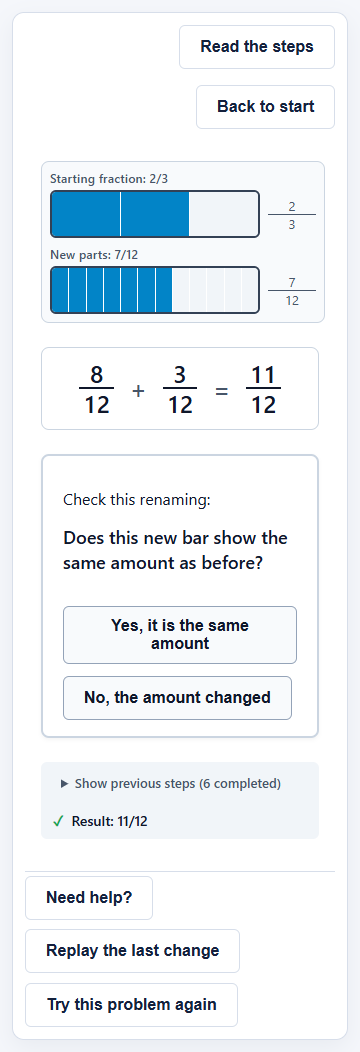
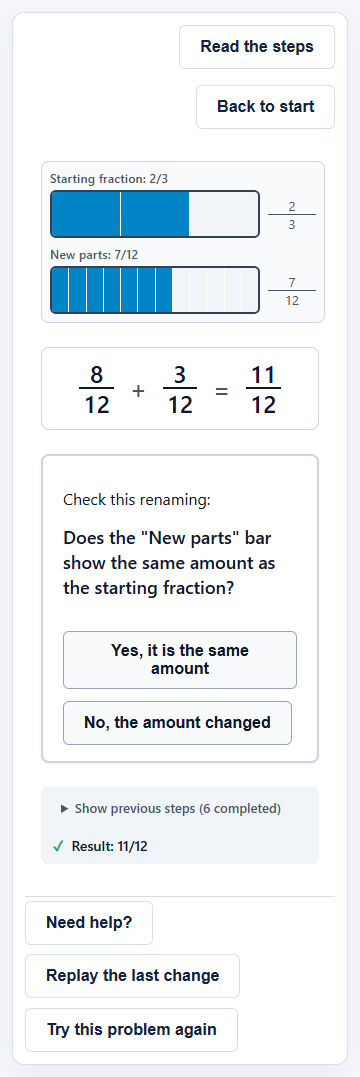
review: accept Plan 13 and clarify premise question

diff --git a/tests/app-shell.test.js b/tests/app-shell.test.js
@@ -314,7 +314,7 @@ describe('Plan 09 app shell and upstream display switcher', () => {
     expect(root.querySelector('.app-visual-view').textContent)
       .toContain('Check this renaming:');
     expect(root.querySelector('.app-visual-view').textContent)
-      .toContain('Does this new bar show the same amount as before?');
+      .toContain('Does the "New parts" bar show the same amount as the starting fraction?');
     expect(root.querySelector('.app-visual-view .premise-comparison')).toBeTruthy();
 
     // Denominator 12 has false premise (7/12 for 2/3). Answering 'yes' triggers recovery!

diff --git a/src/render/strings.js b/src/render/strings.js
@@ -103,7 +103,7 @@ export const STRINGS = Object.freeze({
     premiseFraming: 'Check this renaming:',
     premiseTopBarLabel: (num, den) => `Starting fraction: ${num}/${den}`,
     premiseBottomBarLabel: (num, den) => `New parts: ${num}/${den}`,
-    premisePrompt: 'Does this new bar show the same amount as before?',
+    premisePrompt: 'Does the "New parts" bar show the same amount as the starting fraction?',
     premiseOptions: Object.freeze({
       yes: 'Yes, it is the same amount',
       no: 'No, the amount changed',

diff --git a/tests/premise-check.test.js b/tests/premise-check.test.js
@@ -167,7 +167,7 @@ describe('Premise Check (CM-01-P, Repair 05 Item 1)', () => {
 
     // Prompt and framing
     expect(container.textContent).toContain('Check this renaming:');
-    expect(container.textContent).toContain('Does this new bar show the same amount as before?');
+    expect(container.textContent).toContain('Does the "New parts" bar show the same amount as the starting fraction?');
 
     // Both referent fraction bars must be on screen!
     expect(container.textContent).toContain('Starting fraction: 2/3');

diff --git a/reports/development/plan-13-scaffold-fading-made-real/delivery-review.md b/reports/development/plan-13-scaffold-fading-made-real/delivery-review.md
@@ -1,0 +1,29 @@
+# Plan 13 delivery review and owner wording
+
+- Date: 2026-10-04.
+- Implementation `85f995a`; report `56292a6`.
+- Disposition: technically accepted; no remaining blocking findings. Owner accepted screenshots subject to the question wording implemented below.
+
+## Mechanism and agency
+
+Independent source review, including a separate read-only reviewer, confirms exactly two dimensions change in medium support. The full immutable configuration flows from the actual entry gear into episode construction, scene projection, and rendering. No performance policy, math/premise-content changes, renderer-owned support selection, or extra support consequence was introduced. Both render keys account for support-dependent controls.
+
+High supplies denominator candidates and paired premise bars. Medium uses numeric denominator entry and withholds only the source bar, retaining the source fraction as visible accessible text, the presented fraction/bar, question, and choices. The linear path retains both explicit operands. At both levels the learner still identifies unit relationships, chooses a denominator, constructs equivalent forms, operates, resolves, and judges the premise. True and false premises retain their authored truth and response classification; wrong denominator entry recovers without losing the task.
+
+Constructor/replay validation is unchanged; complete profile round trips and the existing legacy oracle tests passed. Support remains fixed in an active episode, survives retry, and applies the current entry selection to fresh re-entry. Reload and initial fragment launch default high; same-session practice navigation can retain the prior reviewer selection. That precision does not create a new reset policy.
+
+## Independent checks and route accounting
+
+Before the wording change, the orchestrator ran 278 tests, both builds, all 41 browser executions, and the Plan 15 seeded visual verifier; all passed, including expected seeded failures and restored successes. After the owner wording edit, the suite/build/all 41 executions passed again, and the browser capture regenerated seven screens, 32 measurements, and eight participation records. Packet lint and diff check passed.
+
+The implementer retained all 29 prior route IDs / 31 prior executions. Four high-premise rows were strengthened with explicit gear selection, additional support/bar assertions, and broader captures; their original response assertions and reciprocal target pairs remain. They were not byte-identical rows, and the progress report has been clarified. Ten new routes make 39 rows / 41 executions. The subsequent owner-copy change modifies only literal question assertions, including one prior route; no route action or response check was removed.
+
+## Owner-requested copy and refreshed layout
+
+Owner said the screenshots were OK and proposed: `Does the "New parts" bar show the same amount as the starting fraction?` Orchestration applied that exact visual question, updated its existing unit/route assertions, and refreshed the evidence. The linear path keeps its fraction-based wording, since it does not display the named bar.
+
+The longer question adds one text line. At reflection, the regenerated high-support answer controls span y=619.28–733.28 and medium controls y=582.28–696.28 at both reference heights. Question/controls remain in view in the captured state; the measurement records also explicitly retain scroll y=12 and ordinary vertical page overflow. High's full active-task border extends below 740px, so this is not a one-screen or no-scroll episode claim. All 32 records retain no horizontal overflow. The existing document-scroll posture accepted by the owner is preserved.
+
+Keyboard, browser touch-context, reduced-motion, and linear participation completed at both profiles. The reset/focus record confirms medium retry, high reload default, entry-heading focus on return, and fresh high re-entry after changed selection. Physical-device typing and actual assistive-technology interpretation remain untested; no efficacy or adaptive-policy claim is made.
+
+Owner acceptance is recorded in `owner-disposition.md`. It accepts the bounded mechanism/screens and the verified preservation of learner responsibilities; it does not authorize deployment or make a broader Roadmap section 22 or pedagogical judgement. No further confirmation is required for the requested copy edit.

diff --git a/docs/development/README.md b/docs/development/README.md
@@ -21,7 +21,7 @@ Packets are assigned to implementer agents. Each packet defines scope, required 
 | `plan-10` | Phase 3 Generalization — Design and Reach Assessment | complete | Prepare — but do not begin — Roadmap Phase 3. Assess how far the established fraction-bar interaction grammar actually stretches across the eight problem families of §27 and the six focused concept episodes of §28, family by family, naming which reuse existing motifs unchanged, which need a new beat, and which need a representation the bar cannot give. Resolve OQ-20 (a result crossing one whole) and decide whether mixed numbers enter Phase 3 or later. Output is a design dossier under docs/, not application code. |
 | `plan-11` | Motion and Animated Subdivision | draft | Build D-01-A, the animated subdivision that Phase 2 promised and never implemented. Restore the parked "Smooth change" condition label, give DECISION-021 criterion 4 and the reduced-motion participation-floor row real content to be tested against, and keep the whole thing learner-triggered with no auto-advance in any motion mode. |
 | `plan-12` | Entry Page and Session Shape | complete | Give the app a front door. Resolve OQ-19: an entry page where the app name and the reviewer-only condition switcher live, from which a learner enters the episode, and to which the episode returns. Removes the footer-title workaround adopted in plan-09 Repair 01, and gives the gear menu somewhere to live that does not overlap the work surface. No accounts, no storage, no progress. Also repairs the Inspection Mode focus defect that plan-14 found on the deployed slice, because it is a defect in the same focus contract this packet is opening. |
-| `plan-13` | Scaffold Fading Made Real | in-progress | Give the four-level support ladder a writer. src/interaction/support.js builds high / medium / low / independent across six dimensions; state.support is assigned once and never updated, so no learner reaches any level but the first. Make at least two levels reachable and visibly different, starting with OQ-22's lower-support premise check, and answer Roadmap §22's "architectural ability to fade" with behavior rather than with a type. |
+| `plan-13` | Scaffold Fading Made Real | delivered | Give the four-level support ladder a writer. src/interaction/support.js builds high / medium / low / independent across six dimensions; state.support is assigned once and never updated, so no learner reaches any level but the first. Make at least two levels reachable and visibly different, starting with OQ-22's lower-support premise check, and answer Roadmap §22's "architectural ability to fade" with behavior rather than with a type. |
 | `plan-14` | Reachable Behavior Contract and Browser Route Matrix | complete | Turn the Phase 2 diagnosis into an executable artifact. Every learner-visible behavior the project claims gets a route witness: a registered configuration, a permitted starting surface, a concrete action sequence through mounted app controls, the expected observable difference, and a negative control proving the behavior is not permanently on or identical to its alternative. Fails when a registered condition has no route witness, or when a route produces the same output as the alternative it claims to differ from. |
 | `plan-15` | Subtraction Representation Prototypes | complete | Build two reviewer-facing prototypes of fraction-bar subtraction — takeaway (segments removed from the minuend) and comparison (both quantities shown, the gap between them marked) — on a standalone surface outside the learner app, driven by the real exact-arithmetic core. Both are learner-operable, not pictures. The deliverable is something the owner and students can use and react to, so that OQ-25 is settled by observation rather than by prose. |
 | `plan-16` | Computed Beat Schedule | complete | Implement DECISION-034. Replace the fixed seven-beat arc with a beat schedule computed once at episode construction from the content instance and frozen, whose entries are beat instances (transform-left, transform-right) rather than beat names. A pure refactor: the canonical Phase 2 problem must produce exactly today's arc, proved by the plan-14 route matrix passing unedited. No new problem family ships here. |

diff --git a/reports/development/plan-13-scaffold-fading-made-real/progress.md b/reports/development/plan-13-scaffold-fading-made-real/progress.md
@@ -46,7 +46,7 @@ Matched screenshots and browser measurements are saved under [`evidence`](./evid
 | transform-right | 428.72–479.09 | 558.03–605.03 | 558.03–605.03 | 968 / 968 |
 | operate | 428.72–479.09 | 538.03–585.03 | 538.03–585.03 | 929 / 929 |
 | resolve | 428.72–453.91 | 484.84–528.84 | 484.84–528.84 | 873 / 873 |
-| reflect | high: 512.78–563.16; medium: 475.78–526.16 | 594.09–708.09 | 557.09–671.09 | 1052 / 1015 |
+| reflect | high: 512.78–588.34; medium: 475.78–551.34 | 619.28–733.28 | 582.28–696.28 | 1077 / 1040 |
 
 All 32 measurements report document width 360px, no horizontal overflow, and vertical overflow requiring ordinary page scrolling. Every active question and active control is within the viewport at both heights. The full scene extends below the viewport on reflection and on medium-support denominator entry; the active task controls themselves remain in view. Lower non-active page content therefore still uses normal vertical scrolling.
 
@@ -102,3 +102,9 @@ No advisor finding was rejected. The advisor's conclusion is not treated as pack
 The sandbox denied ordinary Git index writes (`.git/index.lock: Permission denied`) even though no lock file existed; the harmless `git add --refresh -- .` probe confirmed the metadata-write restriction. Repository guidance allowed a narrowly scoped elevation, which successfully staged and committed only the explicit Plan 13 implementation/evidence paths. No ACL was changed.
 
 The owner must review the rendered high/medium screens and make the required agency acceptance decision. This implementation does not close OQ-22 or claim Roadmap §22 is satisfied. Delivery review should also confirm the intended premise-comparison demand and the entry-menu descriptions. Packet status remains owner/orchestrator-controlled.
+
+## Orchestration delivery update — 2026-10-04
+
+Technical review accepted the implementation. The owner said the screenshots were OK, subject to the question wording now applied exactly: `Does the "New parts" bar show the same amount as the starting fraction?` The existing text assertions were updated; seven screenshots, 32 measurements, and eight participation records were regenerated. The reflection row above reflects the new wording. All questions/controls fit in the captured state with the recorded scroll position; ordinary page scrolling remains.
+
+Route-accounting clarification: the prior 29 route IDs and 31 executions were retained, but four high-premise rows gained explicit support selection, additional assertions, and broader captures. Their original assertions and reciprocal targets remain; they were not byte-identical rows. Orchestration's copy edit then changed only literal question assertions. Independent suite/build/all 41 executions and packet lint/diff checks passed after the edit. See `delivery-review.md` and `owner-disposition.md` for evidence and bounded acceptance; no push or deployment was made.

diff --git a/reports/development/plan-13-scaffold-fading-made-real/owner-disposition.md b/reports/development/plan-13-scaffold-fading-made-real/owner-disposition.md
@@ -1,0 +1,11 @@
+# Plan 13 owner disposition
+
+- Date: 2026-10-04.
+- Owner statement: "The screenshots are OK but I would suggest asking the question as `Does the "New parts" bar show the same amount as the starting fraction?`"
+- Accepted implementation `85f995a`, report `56292a6`, with the orchestrator's exact wording edit and regenerated browser evidence.
+
+The screen approval was conditional on the requested wording. That edit is implemented and independently checked, so the condition is fulfilled without a second approval loop. The scene retains the source and presented fractions and both response choices; technical review verifies the same responsibilities at both support profiles. This closes the packet's bounded screen/agency acceptance gate.
+
+This accepts reachable reviewer-selected high and medium support, with only the two approved fading consequences. It does not endorse a learner-placement/performance policy, claim learning efficacy, or certify physical devices or assistive technology. OQ-22's concrete lower-bar-support mechanism is delivered; broader roadmap or pedagogical judgements are not inferred from this acceptance.
+
+Acceptance authorizes packet closeout, not push/deployment or automatic initiation of another packet.

diff --git a/docs/development/plan-13-scaffold-fading-made-real.md b/docs/development/plan-13-scaffold-fading-made-real.md
@@ -1,7 +1,7 @@
 ---
 id: plan-13
 title: Scaffold Fading Made Real
-status: in-progress
+status: delivered
 depends_on: [plan-12, plan-14]
 gate: "Mechanism confirmation before source work: where state.support is written, which of the six dimensions actually vary, and the negative evidence that no renderer flag or performance policy is involved. Then owner review of at least two support levels on rendered screens with an explicit agency check. The surface is settled by DECISION-030; the policy remains out of scope."
 summary: >-
